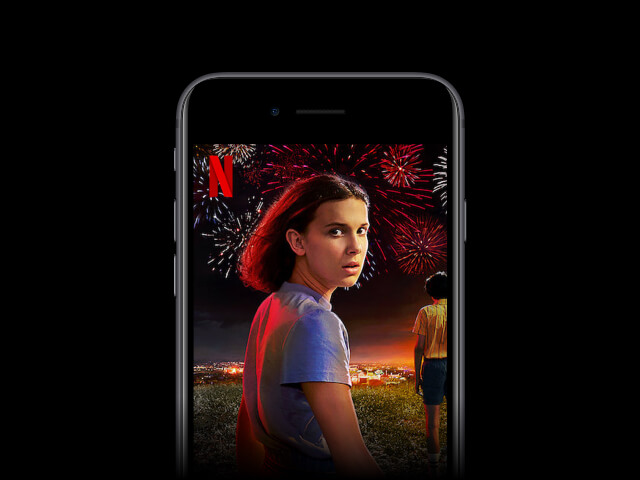
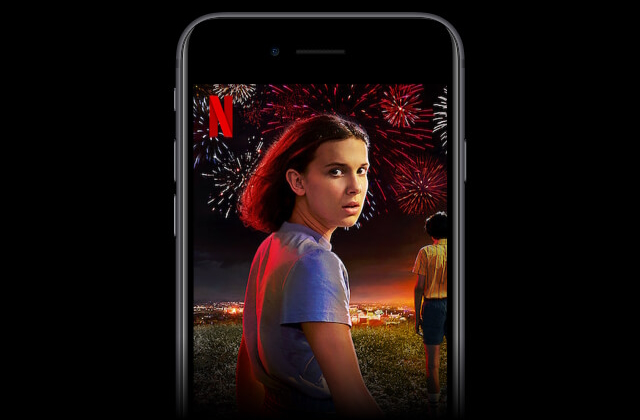
Last fixes

Changed region(s): [[0.25, 0.031, 0.75, 0.9595], [0.3125, 0.619, 0.3438, 0.65]]

diff --git a/src/components/DownloadAndWatch.jsx b/src/components/DownloadAndWatch.jsx
@@ -5,7 +5,8 @@ import icon from '../Assets/download-icon.gif'
 function DownloadAndWatch() {
   return (
     <div className='DownloadAndWatch border-b-8 border-[#222]'>
-      <div className="container flex m-auto flex-row-reverse px-[70px] py-[25px] max-[500px]:px-2 justify-evenly items-center relative 
+      <div className="container flex m-auto flex-row-reverse px-[70px] pt-14 pb-8 max-[500px]:px-2 items-center relative 
+      max-[1060px]:px-6
       min-[1600px]:justify-center
       max-[950px]:flex-col
       ">
@@ -13,7 +14,7 @@ function DownloadAndWatch() {
         max-[950px]:w-full max-[950px]:px-4 max-[950px]:mb-14
         max-[400px]:mb-20
         ">
-          <h1 className='text-[3rem] leading-[1.1] mb-6 font-bold 
+          <h1 className='text-[3rem] leading-[1.1] mb-4 font-bold 
           max-[950px]:text-center
           max-[948px]:text-[2.5rem]
           max-[640px]:text-[2.2rem]
@@ -30,36 +31,41 @@ function DownloadAndWatch() {
           max-[550px]:text-[1.1rem]'>
             Легко зберігайте улюблені телесеріали й фільми, щоб дивитися їх будь-коли.</h2>
         </div>
-        <div className="img-container min-h-full flex items-center flex-initial max-[950px]:mt-[-10%] max-[950px]:pt-[3%] max-[350px]:mb-[25px] max-[350px]:mt-[-23%] max-[266px]:hidden">
-          <div className="animationcontainer overflow-hidden min-[950px]:ml-[-15%] flex items-center justify-center max-[950px]:pt-[-10%] max-[950px]:mb-[10%] max-[366px]:mb-[50px]">
-            <div className="imgcontainer w-[80%] max-[400px]:w-full">
+        <div className="img-container min-h-full flex items-center flex-initial 
+        max-[950px]:mt-[-5%]
+        max-[770px]:mt-[-8%]
+        max-[400px]:mt-[-17%]">
+          <div className="animationcontainer overflow-hidden min-[950px]:ml-[-15%] flex items-center justify-center max-[366px]:mb-[50px]">
+            <div className="imgcontainer w-[80%] max-[1030px]:min-w-[500px] max-[800px]:min-w-[400px] max-[500px]:min-w-[100%]">
               <img src={mobile} alt="mobile" />
             </div>
             <div className="download border-2 overflow-hidden flex justify-between border-[#333] rounded-[20px] bg-black
          items-center absolute bottom-[15%] max-[950px]:bottom-[5rem] px-3 py-2 z-10 w-[20rem]
          max-[600px]:bottom-16
           max-[550px]:text-[1.1rem]
-          max-[550px]:w-[50%]
+          max-[550px]:w-[60%]
           max-[420px]:bottom-8
+          max-[420px]:w-[70%]
           max-[320px]:bottom-4
          ">
-              <div className="imagecontainer h-[5rem] inline-flex shrink-0 
-              max-[600px]:h-[4rem]
-              max-[450px]:h-[3rem]
-              'max-w-[100px] md:max-w-[50px]'
+              <div className="imagecontainer h-16 flex shrink-0 
+              max-[600px]:h-14
+              max-[450px]:h-12
               ">
                 <img src={boxshot} alt="stranger things" />
               </div>
-              <div className="text inline flex-col">
+              <div className="absolute left-[27%]">
                 <h1 className='font-bold
           max-[1300px]:text-[1rem]
           max-[700px]:text-[.9rem]
-          max-[515px]:text-[.6rem]
+          max-[515px]:text-[.8rem]
+          max-[300px]:text-[.7rem]
                 '>Дивні дива</h1>
                 <h2 className='text-blue-600
                 max-[1300px]:text-[1rem]
           max-[700px]:text-[.9rem]
-          max-[515px]:text-[.5rem]
+          max-[515px]:text-[.8rem]
+          max-[300px]:text-[.7rem]
                 '>Завантаження...</h2>
               </div>
               <div className="gifcontainer inline-flex shrink-0 max-[400px]:right-2">

diff --git a/src/App.js b/src/App.js
@@ -10,7 +10,7 @@ import {
 } from "./components/AllComponents";
 function App() {
   return (
-    <div className="App bg-black text-white my-0 mx-auto mmin-w-[300px]">
+    <div className="App bg-black text-white my-0 mx-auto min-w-[300px]">
       <Header />
       <Hero />
       <OpenOnTv />
